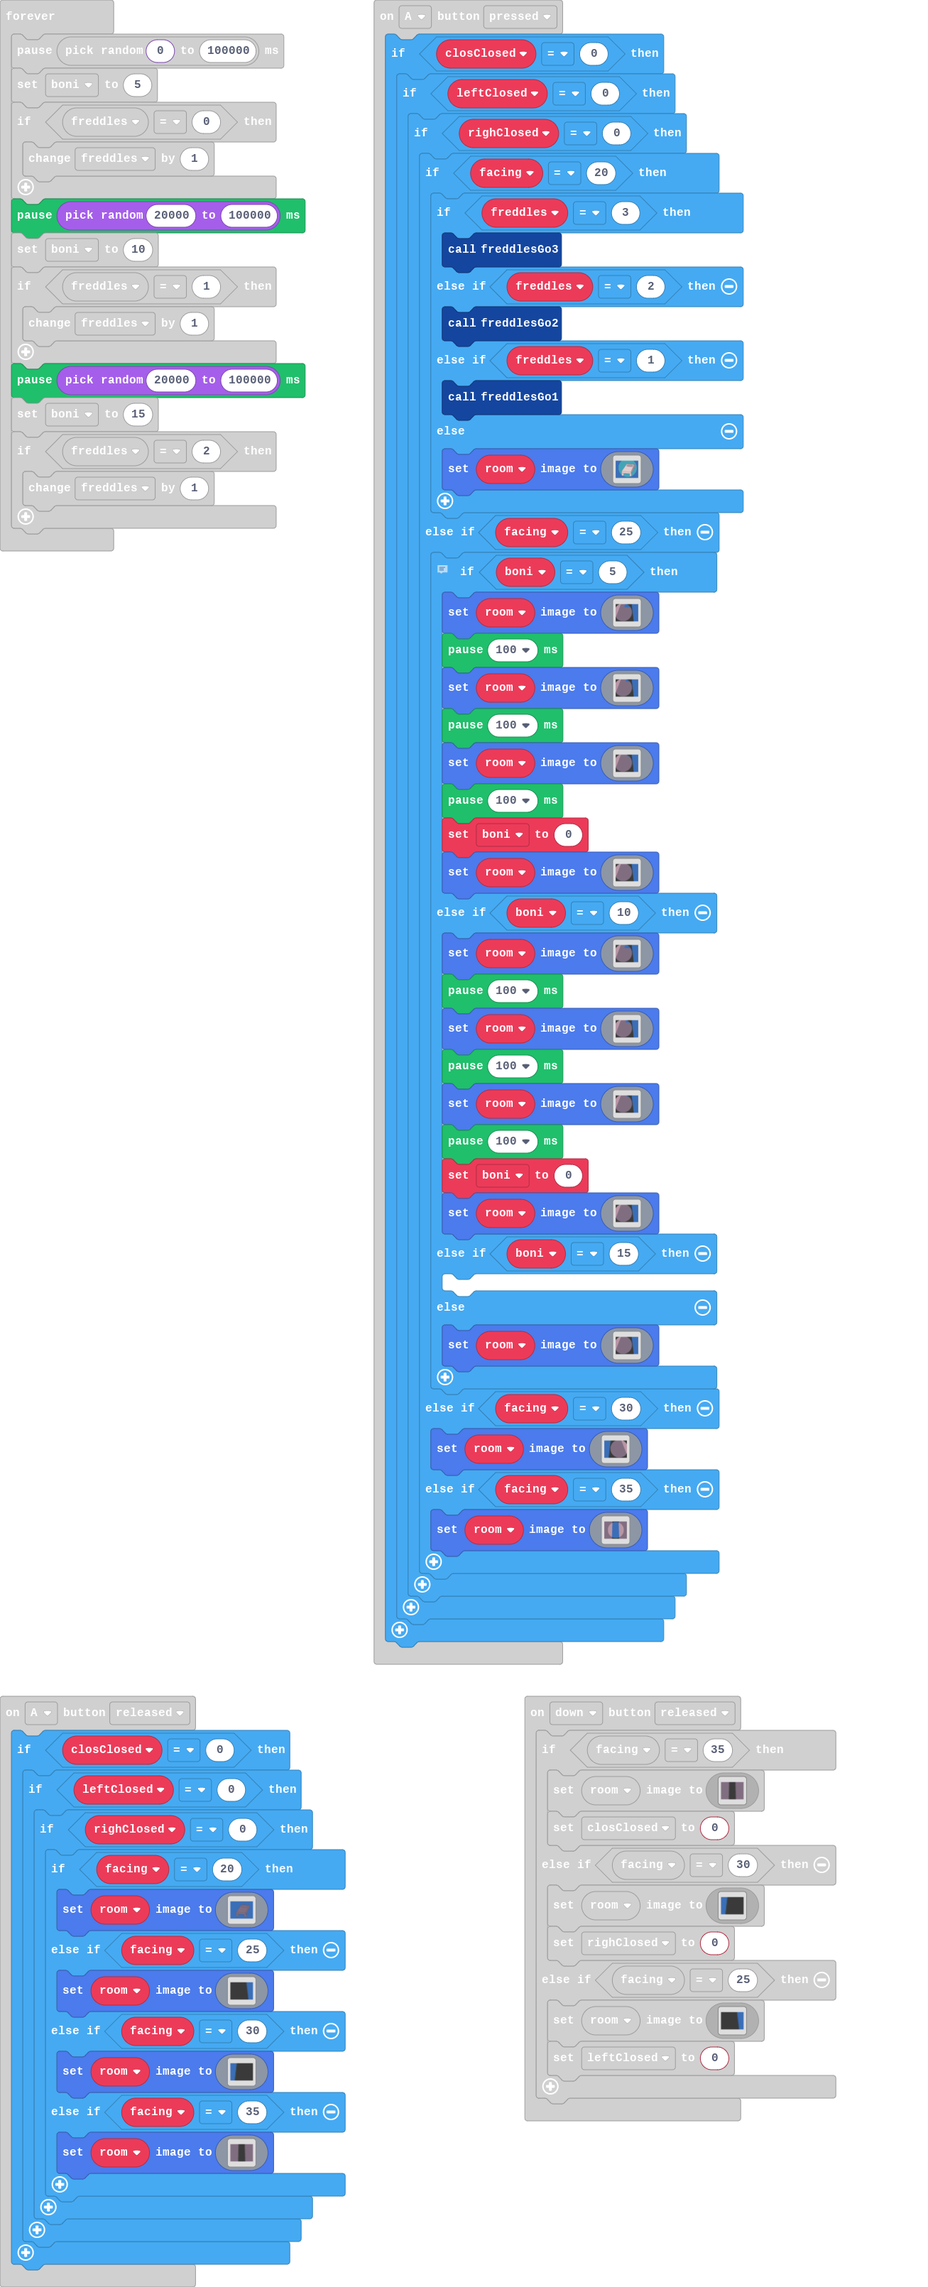
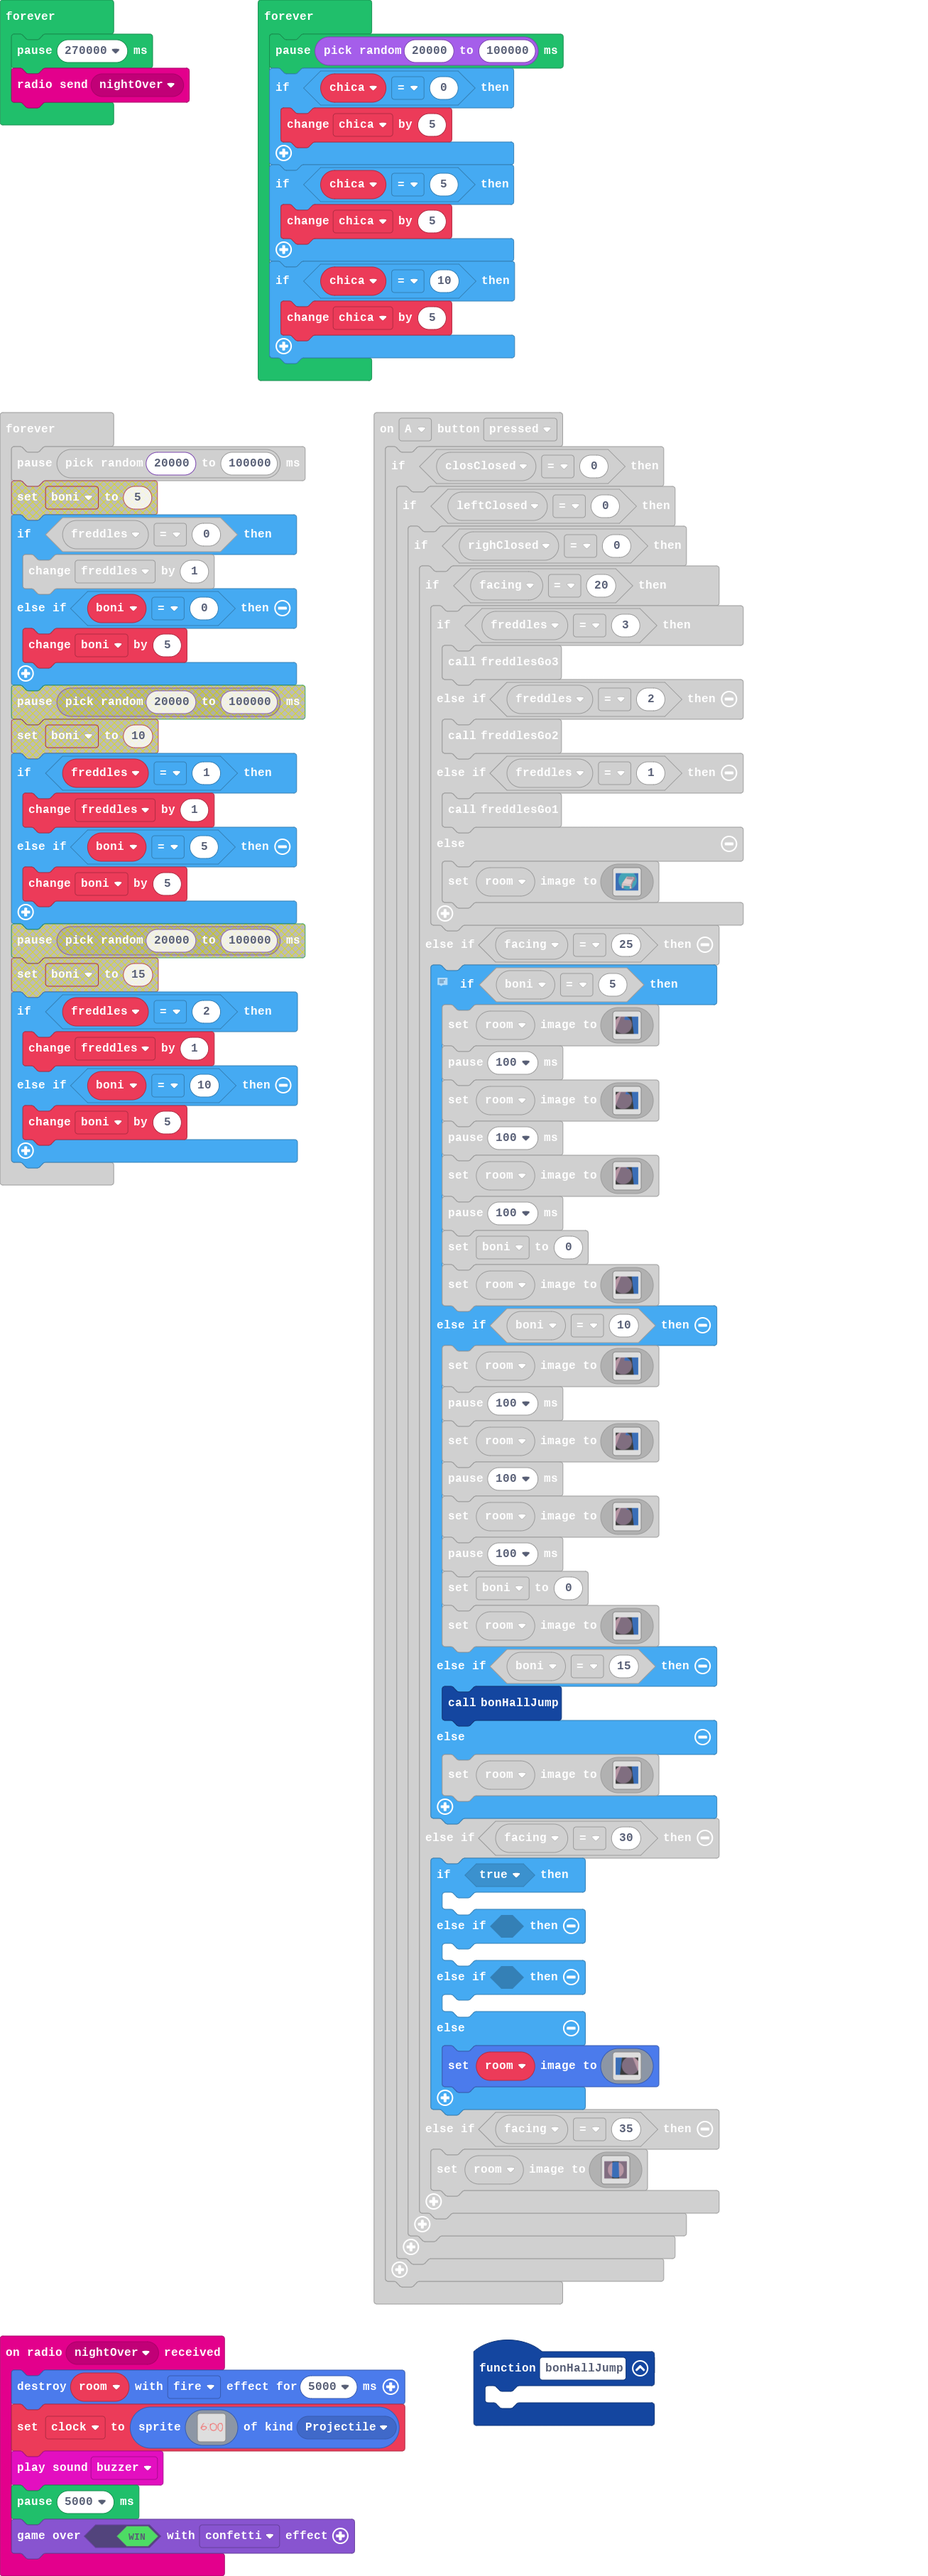
Update main.blocks, main.ts, images.g.jres, images.g.ts

diff --git a/main.ts b/main.ts
@@ -1,3 +1,7 @@
+enum RadioMessage {
+    message1 = 49434,
+    nightOver = 15539
+}
 controller.up.onEvent(ControllerButtonEvent.Pressed, function () {
     if (door == 0) {
         room.setImage(assets.image`frontRoom`)
@@ -72,12 +76,20 @@ controller.A.onEvent(ControllerButtonEvent.Pressed, function () {
                         boni = 0
                         room.setImage(assets.image`leftDoorLight`)
                     } else if (boni == 15) {
-                    	
+                        bonHallJump()
                     } else {
                         room.setImage(assets.image`leftDoorLight`)
                     }
                 } else if (facing == 30) {
-                    room.setImage(assets.image`rightDoorLight`)
+                    if (true) {
+                    	
+                    } else if (false) {
+                    	
+                    } else if (false) {
+                    	
+                    } else {
+                        room.setImage(assets.image`rightDoorLight`)
+                    }
                 } else if (facing == 35) {
                     room.setImage(assets.image`closetLight`)
                 }
@@ -111,6 +123,16 @@ function freddlesGo2 () {
     pause(200)
     freddles = 0
     room.setImage(assets.image`bedRoomOn0`)
+}
+radio.onReceivedMessage(RadioMessage.nightOver, function () {
+    room.destroy()
+    clock = sprites.create(assets.image`clock`, SpriteKind.Projectile)
+    music.buzzer.play()
+    pause(5000)
+    game.over(true)
+})
+function bonHallJump () {
+	
 }
 controller.right.onEvent(ControllerButtonEvent.Pressed, function () {
     if (door == 0) {
@@ -162,6 +184,8 @@ controller.down.onEvent(ControllerButtonEvent.Pressed, function () {
         leftClosed = 10
     }
 })
+let chica = 0
+let clock: Sprite = null
 let righClosed = 0
 let leftClosed = 0
 let closClosed = 0
@@ -175,19 +199,36 @@ door = 0
 room = sprites.create(assets.image`frontRoom`, SpriteKind.Projectile)
 facing = 10
 forever(function () {
-    pause(randint(0, 100000))
-    boni = 5
+    pause(270000)
+    radio.sendMessage(RadioMessage.nightOver)
+})
+forever(function () {
+    pause(randint(20000, 100000))
+    if (chica == 0) {
+        chica += 5
+    }
+    if (chica == 5) {
+        chica += 5
+    }
+    if (chica == 10) {
+        chica += 5
+    }
+})
+forever(function () {
+    pause(randint(20000, 100000))
     if (freddles == 0) {
         freddles += 1
+    } else if (boni == 0) {
+        boni += 5
     }
-    pause(randint(20000, 100000))
-    boni = 10
     if (freddles == 1) {
         freddles += 1
+    } else if (boni == 5) {
+        boni += 5
     }
-    pause(randint(20000, 100000))
-    boni = 15
     if (freddles == 2) {
         freddles += 1
+    } else if (boni == 10) {
+        boni += 5
     }
 })

diff --git a/images.g.ts b/images.g.ts
@@ -2832,6 +2832,41 @@ ffffffffffffffffffffffffffffffffffffffffffcccccccccccccccccccccccfffffffffffffff
[2 lines of base64/hex data omitted]
 `;
+            case "image24":
+            case "clock":return img`
+................................................................
+................................................................
+................................................................
+................................................................
+.........22.......................22222..............22222222...
+........2.............2.........22.....22...........2.......2...
+.......2.....................222.........2.........2.........2..
+.......2....................22............22......22.........2..
+......2.....................22..............2.....2...........2.
+.....2......................2................2....2...........2.
+.....2......................2................2....2...........2.
+....2.......................2................2....2............2
+....2...222222..............2................2....2............2
+...2..22......222...........2................2...2.............2
+...2.2..........2...........2................2...2.............2
+..2.2............2..........2................2...2.............2
+..22.............2..........2................2...2............2.
+..2.............22..........2................2....2...........2.
+...2............2............2...............2....2...........2.
+...22..........2.............2..............2.....2...........2.
+.....2........2...............2.............2.....2..........2..
+......22...222................22............2......2.........2..
+........222............2........2.........22........2........2..
+................................2222...222...........2......2...
+....................................222...............2....22...
+.......................................................2222.....
+................................................................
+................................................................
+................................................................
+................................................................
+................................................................
+................................................................
+`;
         }
         return null;
     })
